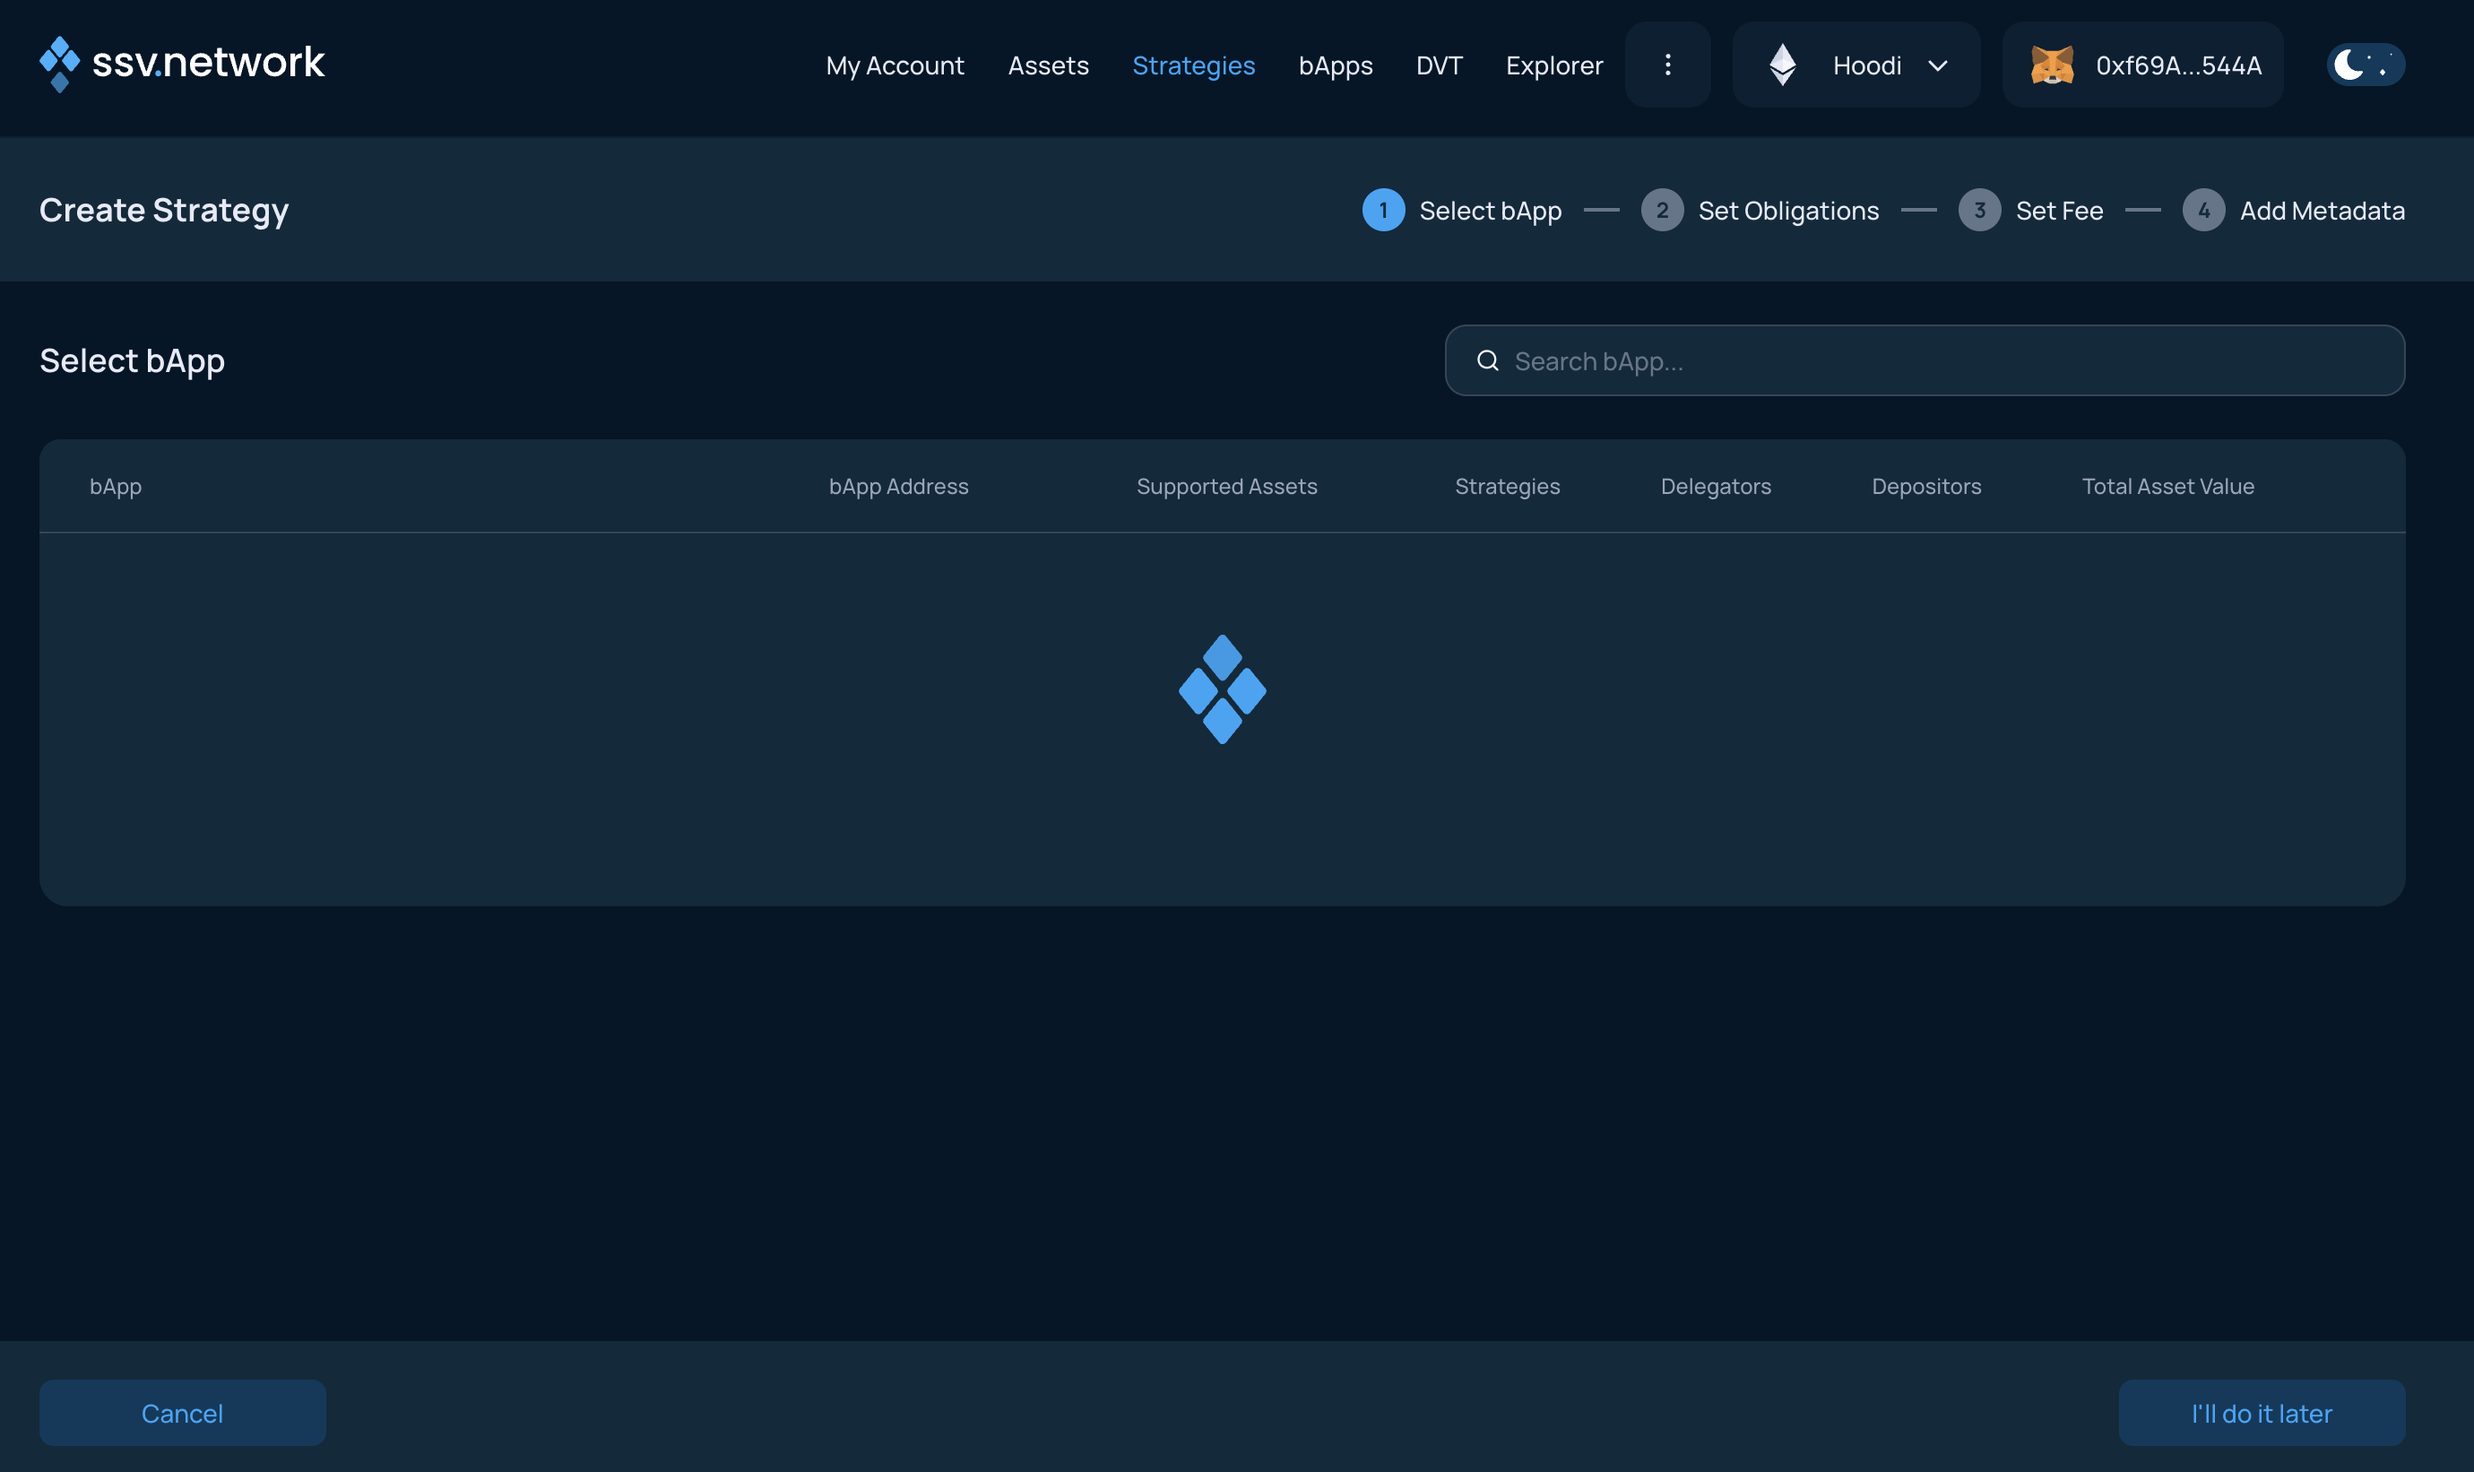
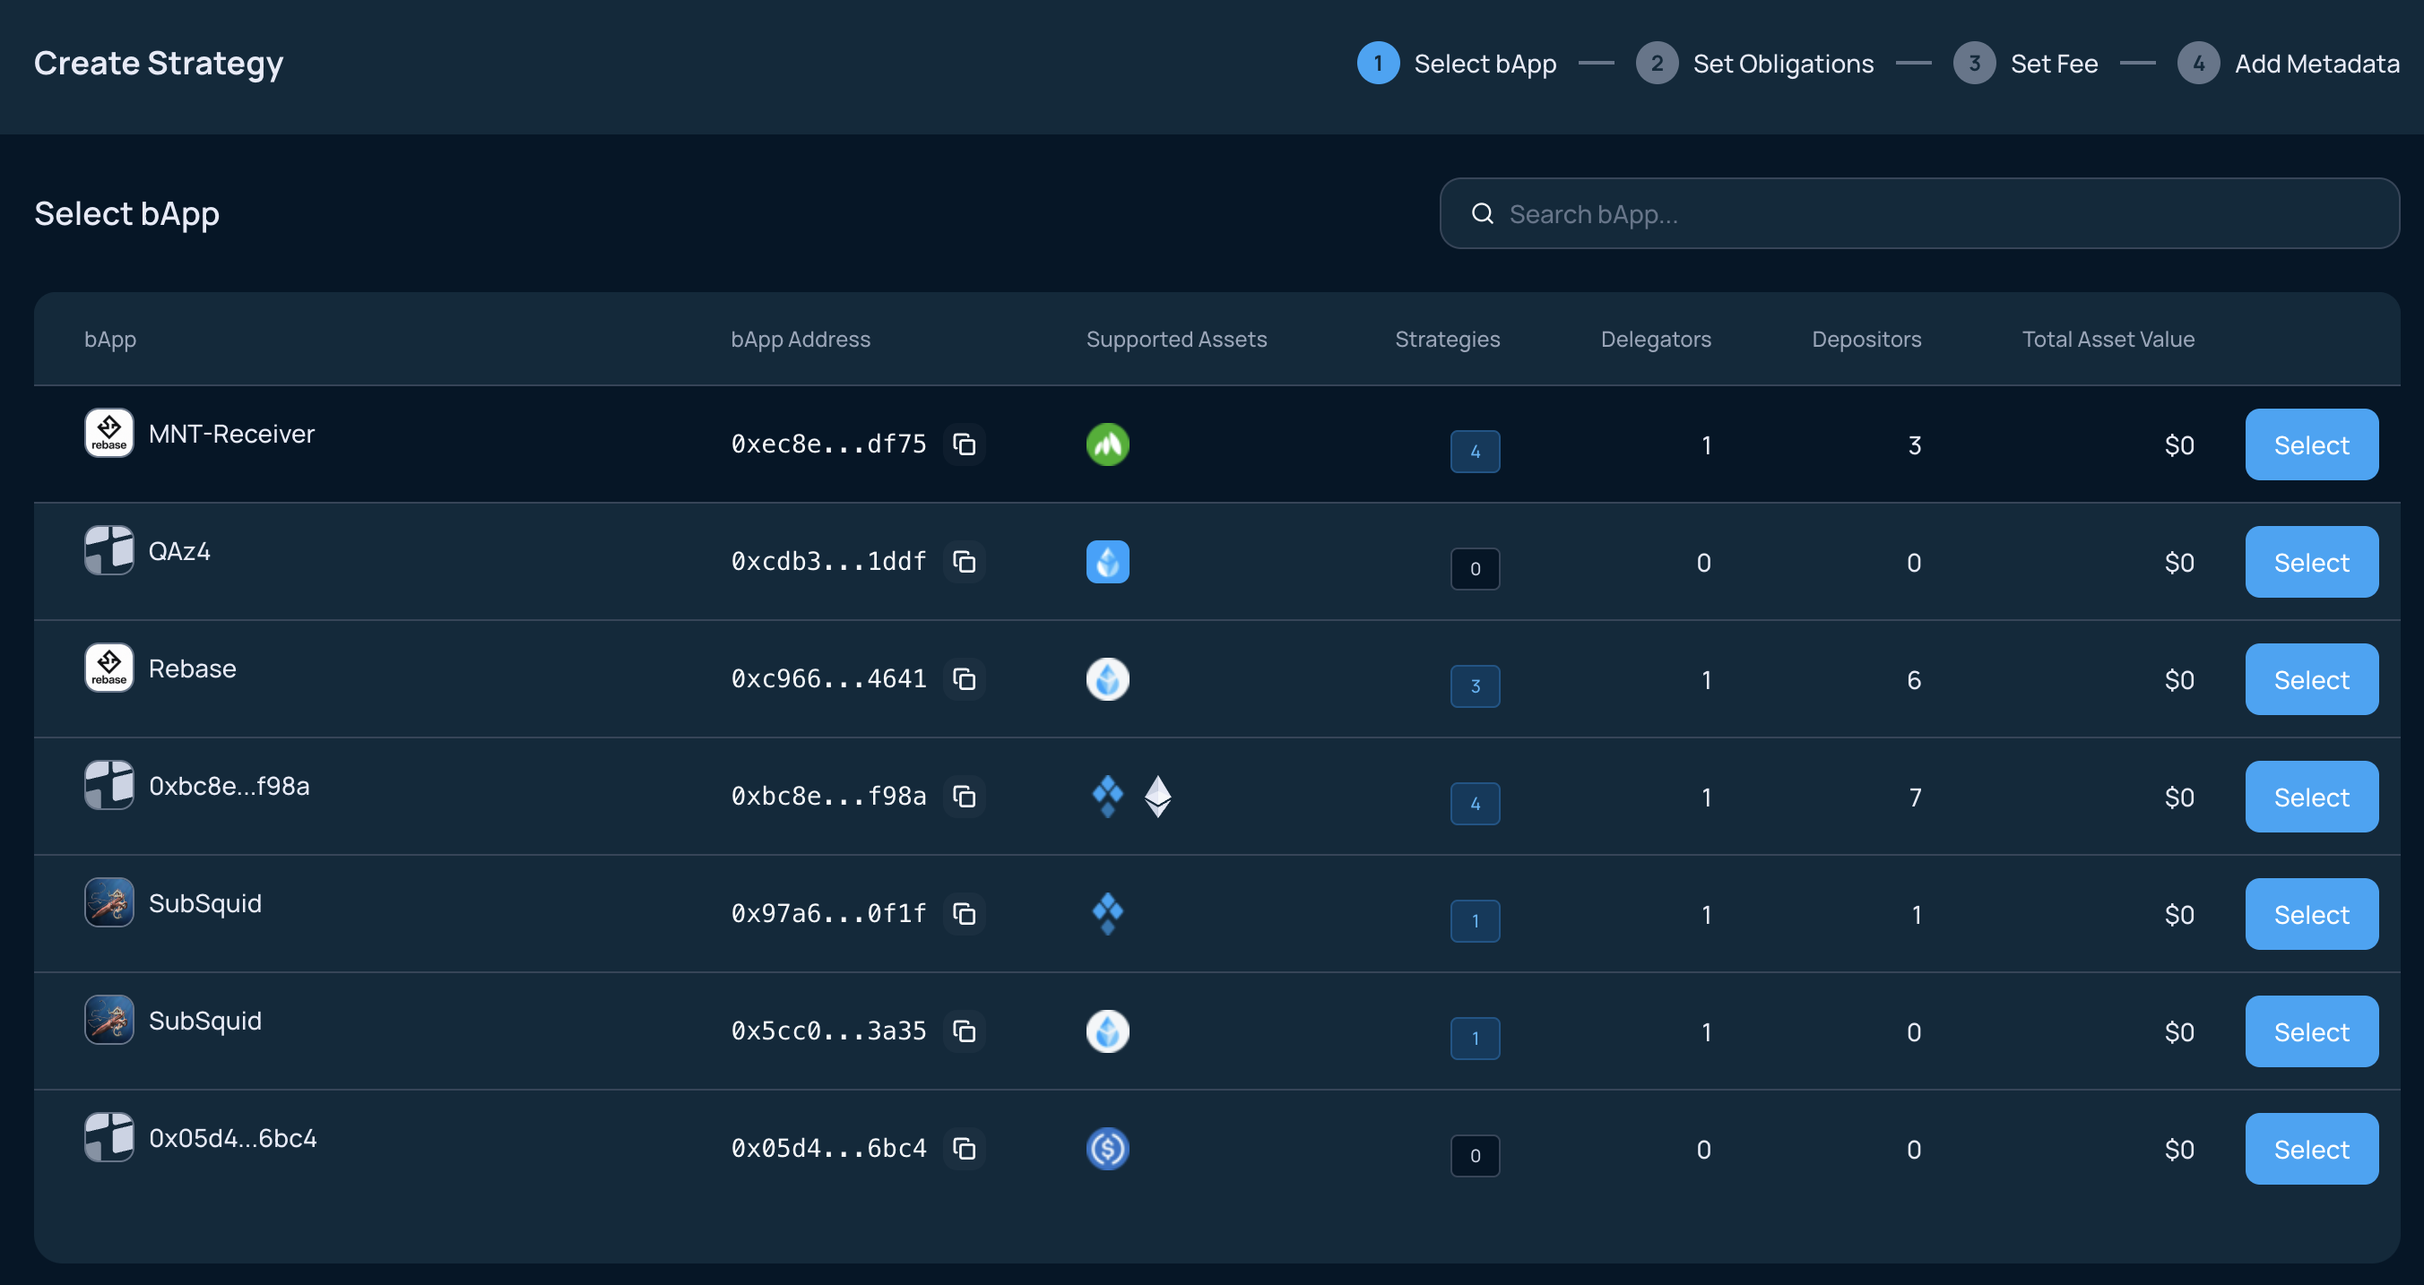
Update "Create Strategy"

diff --git a/docs/based-applications/user-guides/create-strategy.md b/docs/based-applications/user-guides/create-strategy.md
@@ -23,23 +23,34 @@ This page will display a list of the Strategies you already created.
 
 Once you clicked on "Create Strategy" you will see a list of available bApps you can choose from. 
 
-In this example, we will skip this step and choose "I'll do it later" on the bottom of the page.
+In this example, we will choose MNT-Receiver bApp by clicking "Select" on the right side of the list.
 
 <div style={{ textAlign: 'center' }}>
   <img src="/img/create-strategy-2.png" alt="" />
 </div>
 
-## 3. Set Fee and Obligations
+## 3. Set Obligations
 
-You will be prompted to set the Obligations and the Fees for your strategy. If you did not choose any bApp on the previous step, the Obligations step will be skipped and you will go to the "Set Fee" stage.
+You will be prompted to set the Obligations and add Data for your strategy. If you did not choose any bApp on the previous step, the Obligations step will be skipped and you will go to the "Set Fee" stage.
 
-Enter an amount for your Fee, and click the Continue button.
+- `Obligations` is % of the strategy to be obligated to chosen bApp. In the example on screenshot below, 30% of the strategy's MNT balance will be obligated to the bApp.
+You can later update your obligations by modifying existing ones or adding a new token obligation.
 
-<div style={{ textAlign: 'center', width: '60%', margin: '0 auto' }}>
+- `Add Data` is an optional field for off-chain information required by some bApps for participation. Please check this bApp’s documentation [before opting-in](../developers/get-started/#4-opting-in). 
+
+<div style={{ textAlign: 'center' }}>
+  <img src="/img/create-strategy-7.png" alt="" />
+</div>
+
+## 4. Set Fee
+
+You can choose the fee rate on bApp rewards. Enter an amount for your Fee, and click the Continue button.
+
+<div style={{ textAlign: 'center', width: '100%', margin: '0 auto' }}>
   <img src="/img/create-strategy-3.png" alt="" />
 </div>
 
-## 4. Provide Metadata
+## 5. Provide Metadata
 
 Metadata for your Strategy and your Account will have to be set with `.json` files.
 
@@ -67,7 +78,7 @@ Once you provided URI to those files, you will see that information on the page.
 
 After you verified the information, click on Continue.
 
-## 5. Sign transactions
+## 6. Sign transactions
 
 To create your Strategy you will need to sign 2 transactions.
 
@@ -84,7 +95,7 @@ After the first one is completed, another pop-up will appear to sign Registratio
 </div>
 
 
-## 6. Check the created Strategy
+## 7. Check the created Strategy
 
 Once both of the transactions are completed, you will be redirected to the page of your newly created Strategy.
 
